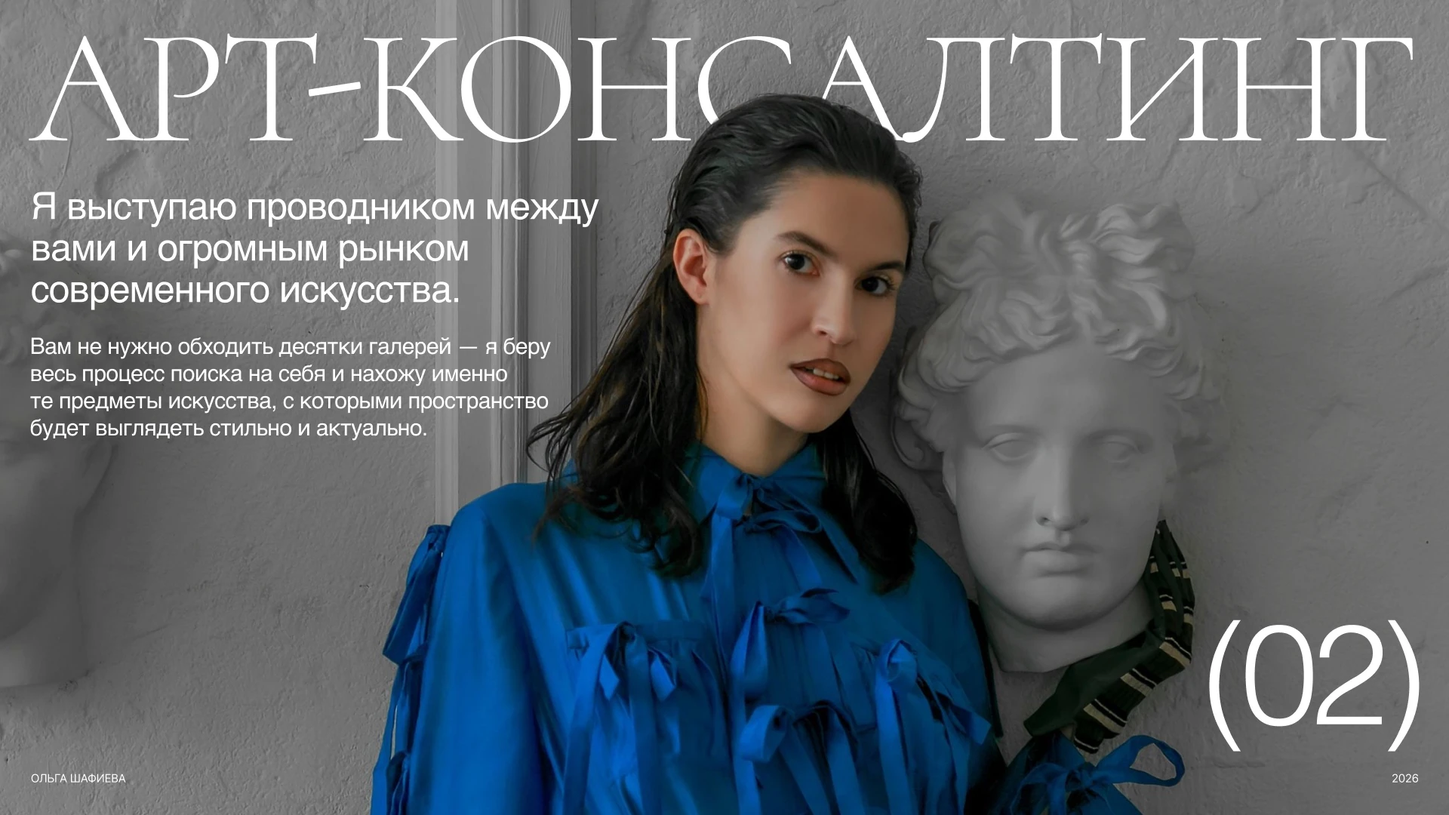
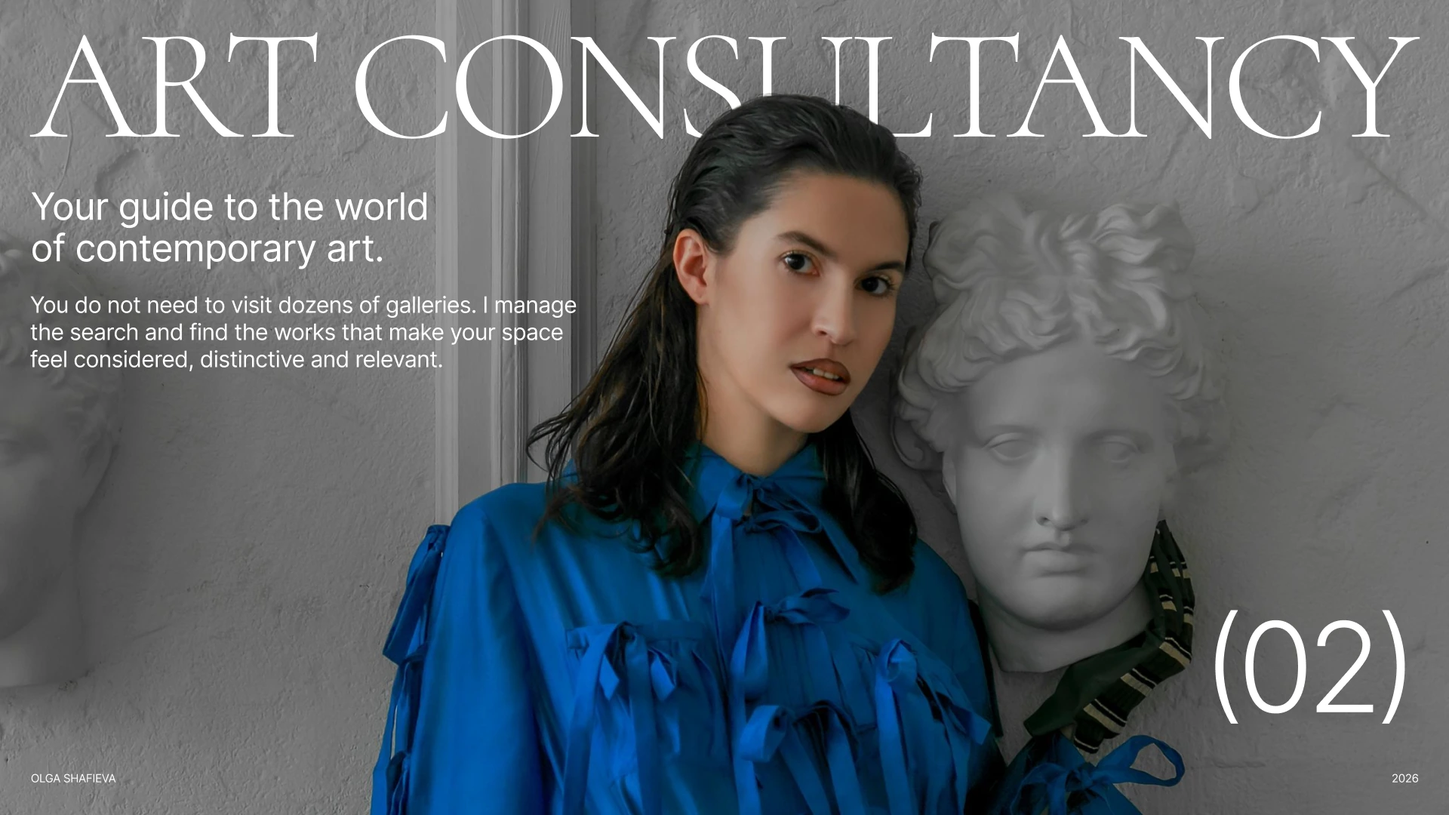
Publish revised English Olga Shafieva case slides

diff --git a/ru/projects/olga-shafieva.html b/ru/projects/olga-shafieva.html
@@ -19,14 +19,14 @@
   <meta property="og:url" content="https://byannadmitrieva.com/ru/projects/olga-shafieva.html">
   <meta property="og:site_name" content="Портфолио Анны Дмитриевой">
   <meta property="og:locale" content="ru_RU">
-  <meta property="og:image" content="https://byannadmitrieva.com/assets/projects/olga-shafieva/olga-01.webp">
+  <meta property="og:image" content="https://byannadmitrieva.com/assets/projects/olga-shafieva/olga-01.webp?v=20261105-en">
   <meta property="og:image:width" content="1920">
   <meta property="og:image:height" content="1080">
   <meta property="og:image:alt" content="Обложка презентации Ольги Шафиевой с портретом на светлом фоне">
   <meta name="twitter:card" content="summary_large_image">
   <meta name="twitter:title" content="Ольга Шафиева — Anna Dmitrieva">
   <meta name="twitter:description" content="Имиджевая презентация на пересечении недвижимости и искусства. Два направления личного бренда — в одной визуальной истории.">
-  <meta name="twitter:image" content="https://byannadmitrieva.com/assets/projects/olga-shafieva/olga-01.webp">
+  <meta name="twitter:image" content="https://byannadmitrieva.com/assets/projects/olga-shafieva/olga-01.webp?v=20261105-en">
   <meta name="twitter:image:alt" content="Обложка презентации Ольги Шафиевой с портретом на светлом фоне">
   <link rel="preload" href="../../assets/fonts/inter-latin.woff2" as="font" type="font/woff2" crossorigin>
   <link rel="preload" href="../../assets/fonts/inter-cyrillic.woff2" as="font" type="font/woff2" crossorigin>
@@ -73,23 +73,23 @@
         </div>
       </div>
       <div class="case-gallery olga-gallery">
-        <figure class="media wide reveal-media"><a href="../../assets/projects/olga-shafieva/olga-01.webp" target="_blank" rel="noopener noreferrer" aria-label="Открыть слайд в полном размере: Обложка презентации Ольги Шафиевой с портретом на светлом фоне"><img src="../../assets/projects/olga-shafieva/olga-01.webp" alt="Обложка презентации Ольги Шафиевой с портретом на светлом фоне" fetchpriority="high" decoding="async" width="1920" height="1080"></a></figure>
+        <figure class="media wide reveal-media"><a href="../../assets/projects/olga-shafieva/olga-01.webp?v=20261105-en" target="_blank" rel="noopener noreferrer" aria-label="Открыть слайд в полном размере: Обложка презентации Ольги Шафиевой с портретом на светлом фоне"><img src="../../assets/projects/olga-shafieva/olga-01.webp?v=20261105-en" alt="Обложка презентации Ольги Шафиевой с портретом на светлом фоне" fetchpriority="high" decoding="async" width="1920" height="1080"></a></figure>
         <p class="case-caption">Каждый слайд можно открыть в полном размере.</p>
         <div class="case-story"><h2>Две экспертизы.<br>Один визуальный язык.</h2><p>Недвижимость и арт-консалтинг объединены через личность эксперта. Портреты, выразительная типографика и архитектурная фотография формируют цельный образ.</p></div>
-        <figure class="media wide reveal-media"><a href="../../assets/projects/olga-shafieva/olga-02.webp" target="_blank" rel="noopener noreferrer" aria-label="Открыть слайд в полном размере: Два направления деятельности: брокеридж и арт-консалтинг"><img src="../../assets/projects/olga-shafieva/olga-02.webp" alt="Два направления деятельности: брокеридж и арт-консалтинг" loading="lazy" decoding="async" width="1920" height="1080"></a></figure>
+        <figure class="media wide reveal-media"><a href="../../assets/projects/olga-shafieva/olga-02.webp?v=20261105-en" target="_blank" rel="noopener noreferrer" aria-label="Открыть слайд в полном размере: Два направления деятельности: брокеридж и арт-консалтинг"><img src="../../assets/projects/olga-shafieva/olga-02.webp?v=20261105-en" alt="Два направления деятельности: брокеридж и арт-консалтинг" loading="lazy" decoding="async" width="1920" height="1080"></a></figure>
         <div class="case-story"><h2>Недвижимость<br>через личность.</h2><p>Чередование портретных и информационных слайдов задаёт ритм презентации. Личная история становится отправной точкой для знакомства с экспертизой и подходом к работе.</p></div>
-        <figure class="media wide reveal-media"><a href="../../assets/projects/olga-shafieva/olga-03.webp" target="_blank" rel="noopener noreferrer" aria-label="Открыть слайд в полном размере: Слайд о брокеридже с портретом в архитектурном пространстве"><img src="../../assets/projects/olga-shafieva/olga-03.webp" alt="Слайд о брокеридже с портретом в архитектурном пространстве" loading="lazy" decoding="async" width="1920" height="1080"></a></figure>
-        <figure class="media pair-left reveal-media"><a href="../../assets/projects/olga-shafieva/olga-04.webp" target="_blank" rel="noopener noreferrer" aria-label="Открыть слайд в полном размере: Портрет в красном и информация об авторе, выступлениях и городах работы"><img src="../../assets/projects/olga-shafieva/olga-04.webp" alt="Портрет в красном и информация об авторе, выступлениях и городах работы" loading="lazy" decoding="async" width="1920" height="1080"></a></figure>
-        <figure class="media pair-right reveal-media"><a href="../../assets/projects/olga-shafieva/olga-05.webp" target="_blank" rel="noopener noreferrer" aria-label="Открыть слайд в полном размере: Опыт в недвижимости: портрет и три блока экспертизы"><img src="../../assets/projects/olga-shafieva/olga-05.webp" alt="Опыт в недвижимости: портрет и три блока экспертизы" loading="lazy" decoding="async" width="1920" height="1080"></a></figure>
+        <figure class="media wide reveal-media"><a href="../../assets/projects/olga-shafieva/olga-03.webp?v=20261105-en" target="_blank" rel="noopener noreferrer" aria-label="Открыть слайд в полном размере: Слайд о брокеридже с портретом в архитектурном пространстве"><img src="../../assets/projects/olga-shafieva/olga-03.webp?v=20261105-en" alt="Слайд о брокеридже с портретом в архитектурном пространстве" loading="lazy" decoding="async" width="1920" height="1080"></a></figure>
+        <figure class="media pair-left reveal-media"><a href="../../assets/projects/olga-shafieva/olga-04.webp?v=20261105-en" target="_blank" rel="noopener noreferrer" aria-label="Открыть слайд в полном размере: Портрет в красном и информация об авторе, выступлениях и городах работы"><img src="../../assets/projects/olga-shafieva/olga-04.webp?v=20261105-en" alt="Портрет в красном и информация об авторе, выступлениях и городах работы" loading="lazy" decoding="async" width="1920" height="1080"></a></figure>
+        <figure class="media pair-right reveal-media"><a href="../../assets/projects/olga-shafieva/olga-05.webp?v=20261105-en" target="_blank" rel="noopener noreferrer" aria-label="Открыть слайд в полном размере: Опыт в недвижимости: портрет и три блока экспертизы"><img src="../../assets/projects/olga-shafieva/olga-05.webp?v=20261105-en" alt="Опыт в недвижимости: портрет и три блока экспертизы" loading="lazy" decoding="async" width="1920" height="1080"></a></figure>
         <div class="case-story"><h2>От образа<br>к ясной структуре.</h2><p>Слайды о покупке и продаже выстроены по одной сетке: этапы работы слева, интерьерная фотография справа. Повторяемая композиция помогает ориентироваться в информации.</p></div>
-        <figure class="media pair-left reveal-media"><a href="../../assets/projects/olga-shafieva/olga-06.webp" target="_blank" rel="noopener noreferrer" aria-label="Открыть слайд в полном размере: Покупка недвижимости: этапы работы и интерьер с террасой"><img src="../../assets/projects/olga-shafieva/olga-06.webp" alt="Покупка недвижимости: этапы работы и интерьер с террасой" loading="lazy" decoding="async" width="1920" height="1080"></a></figure>
-        <figure class="media pair-right reveal-media"><a href="../../assets/projects/olga-shafieva/olga-07.webp" target="_blank" rel="noopener noreferrer" aria-label="Открыть слайд в полном размере: Продажа недвижимости: этапы работы и интерьер квартиры"><img src="../../assets/projects/olga-shafieva/olga-07.webp" alt="Продажа недвижимости: этапы работы и интерьер квартиры" loading="lazy" decoding="async" width="1920" height="1080"></a></figure>
+        <figure class="media pair-left reveal-media"><a href="../../assets/projects/olga-shafieva/olga-06.webp?v=20261105-en" target="_blank" rel="noopener noreferrer" aria-label="Открыть слайд в полном размере: Покупка недвижимости: этапы работы и интерьер с террасой"><img src="../../assets/projects/olga-shafieva/olga-06.webp?v=20261105-en" alt="Покупка недвижимости: этапы работы и интерьер с террасой" loading="lazy" decoding="async" width="1920" height="1080"></a></figure>
+        <figure class="media pair-right reveal-media"><a href="../../assets/projects/olga-shafieva/olga-07.webp?v=20261105-en" target="_blank" rel="noopener noreferrer" aria-label="Открыть слайд в полном размере: Продажа недвижимости: этапы работы и интерьер квартиры"><img src="../../assets/projects/olga-shafieva/olga-07.webp?v=20261105-en" alt="Продажа недвижимости: этапы работы и интерьер квартиры" loading="lazy" decoding="async" width="1920" height="1080"></a></figure>
         <div class="case-story"><h2>Искусство как продолжение<br>пространства.</h2><p>Во второй части меняется настроение: скульптура, насыщенный синий и красный акценты раскрывают тему арт-консалтинга. Общая типографическая система связывает оба направления.</p></div>
-        <figure class="media wide reveal-media"><a href="../../assets/projects/olga-shafieva/olga-09.webp" target="_blank" rel="noopener noreferrer" aria-label="Открыть слайд в полном размере: Арт-консалтинг: портрет в синем рядом со скульптурой"><img src="../../assets/projects/olga-shafieva/olga-09.webp" alt="Арт-консалтинг: портрет в синем рядом со скульптурой" loading="lazy" decoding="async" width="1920" height="1080"></a></figure>
-        <figure class="media wide reveal-media"><a href="../../assets/projects/olga-shafieva/olga-10.webp" target="_blank" rel="noopener noreferrer" aria-label="Открыть слайд в полном размере: Опыт в арт-консалтинге: красная композиция и портрет"><img src="../../assets/projects/olga-shafieva/olga-10.webp" alt="Опыт в арт-консалтинге: красная композиция и портрет" loading="lazy" decoding="async" width="1920" height="1080"></a></figure>
+        <figure class="media wide reveal-media"><a href="../../assets/projects/olga-shafieva/olga-09.webp?v=20261105-en" target="_blank" rel="noopener noreferrer" aria-label="Открыть слайд в полном размере: Арт-консалтинг: портрет в синем рядом со скульптурой"><img src="../../assets/projects/olga-shafieva/olga-09.webp?v=20261105-en" alt="Арт-консалтинг: портрет в синем рядом со скульптурой" loading="lazy" decoding="async" width="1920" height="1080"></a></figure>
+        <figure class="media wide reveal-media"><a href="../../assets/projects/olga-shafieva/olga-10.webp?v=20261105-en" target="_blank" rel="noopener noreferrer" aria-label="Открыть слайд в полном размере: Опыт в арт-консалтинге: красная композиция и портрет"><img src="../../assets/projects/olga-shafieva/olga-10.webp?v=20261105-en" alt="Опыт в арт-консалтинге: красная композиция и портрет" loading="lazy" decoding="async" width="1920" height="1080"></a></figure>
         <div class="case-story"><h2>Разные задачи.<br>Цельная подача.</h2><p>Архитектура, интерьеры и искусство складываются в единую историю. Крупные заголовки, контрастные фотографии и спокойные текстовые блоки удерживают последовательность презентации.</p></div>
-        <figure class="media wide reveal-media"><a href="../../assets/projects/olga-shafieva/olga-08.webp" target="_blank" rel="noopener noreferrer" aria-label="Открыть слайд в полном размере: Специализация на первичном и вторичном рынках недвижимости"><img src="../../assets/projects/olga-shafieva/olga-08.webp" alt="Специализация на первичном и вторичном рынках недвижимости" loading="lazy" decoding="async" width="1920" height="1080"></a></figure>
-        <figure class="media wide reveal-media"><a href="../../assets/projects/olga-shafieva/olga-11.webp" target="_blank" rel="noopener noreferrer" aria-label="Открыть слайд в полном размере: Работа с частными клиентами, девелоперами и дизайнерами интерьера"><img src="../../assets/projects/olga-shafieva/olga-11.webp" alt="Работа с частными клиентами, девелоперами и дизайнерами интерьера" loading="lazy" decoding="async" width="1920" height="1080"></a></figure>
+        <figure class="media wide reveal-media"><a href="../../assets/projects/olga-shafieva/olga-08.webp?v=20261105-en" target="_blank" rel="noopener noreferrer" aria-label="Открыть слайд в полном размере: Специализация на первичном и вторичном рынках недвижимости"><img src="../../assets/projects/olga-shafieva/olga-08.webp?v=20261105-en" alt="Специализация на первичном и вторичном рынках недвижимости" loading="lazy" decoding="async" width="1920" height="1080"></a></figure>
+        <figure class="media wide reveal-media"><a href="../../assets/projects/olga-shafieva/olga-11.webp?v=20261105-en" target="_blank" rel="noopener noreferrer" aria-label="Открыть слайд в полном размере: Работа с частными клиентами, девелоперами и дизайнерами интерьера"><img src="../../assets/projects/olga-shafieva/olga-11.webp?v=20261105-en" alt="Работа с частными клиентами, девелоперами и дизайнерами интерьера" loading="lazy" decoding="async" width="1920" height="1080"></a></figure>
         <div class="case-credits"><p>Анна Дмитриева<br>Дизайн презентации</p><p>Ольга Шафиева<br>Недвижимость и арт-консалтинг</p></div>
       </div>
       <a class="next-project" href="beauty-value.html" style="--next:#8ca4b6">

diff --git a/de/projects/olga-shafieva.html b/de/projects/olga-shafieva.html
@@ -19,14 +19,14 @@
   <meta property="og:url" content="https://byannadmitrieva.com/de/projects/olga-shafieva.html">
   <meta property="og:site_name" content="Portfolio von Anna Dmitrieva">
   <meta property="og:locale" content="de_DE">
-  <meta property="og:image" content="https://byannadmitrieva.com/assets/projects/olga-shafieva/olga-01.webp">
+  <meta property="og:image" content="https://byannadmitrieva.com/assets/projects/olga-shafieva/olga-01.webp?v=20261105-en">
   <meta property="og:image:width" content="1920">
   <meta property="og:image:height" content="1080">
   <meta property="og:image:alt" content="Präsentationstitel für Olga Shafieva mit Porträt vor hellem Hintergrund">
   <meta name="twitter:card" content="summary_large_image">
   <meta name="twitter:title" content="Olga Shafieva — Anna Dmitrieva">
   <meta name="twitter:description" content="Eine persönliche Markenpräsentation zwischen Immobilien und Kunst. Zwei Kompetenzbereiche, verbunden in einer visuellen Geschichte.">
-  <meta name="twitter:image" content="https://byannadmitrieva.com/assets/projects/olga-shafieva/olga-01.webp">
+  <meta name="twitter:image" content="https://byannadmitrieva.com/assets/projects/olga-shafieva/olga-01.webp?v=20261105-en">
   <meta name="twitter:image:alt" content="Präsentationstitel für Olga Shafieva mit Porträt vor hellem Hintergrund">
   <link rel="preload" href="../../assets/fonts/inter-latin.woff2" as="font" type="font/woff2" crossorigin>
   <link rel="stylesheet" href="../../styles.css?v=20261104-olga">
@@ -72,23 +72,23 @@
         </div>
       </div>
       <div class="case-gallery olga-gallery">
-        <figure class="media wide reveal-media"><a href="../../assets/projects/olga-shafieva/olga-01.webp" target="_blank" rel="noopener noreferrer" aria-label="Folie in voller Größe öffnen: Präsentationstitel für Olga Shafieva mit Porträt vor hellem Hintergrund"><img src="../../assets/projects/olga-shafieva/olga-01.webp" alt="Präsentationstitel für Olga Shafieva mit Porträt vor hellem Hintergrund" fetchpriority="high" decoding="async" width="1920" height="1080"></a></figure>
+        <figure class="media wide reveal-media"><a href="../../assets/projects/olga-shafieva/olga-01.webp?v=20261105-en" target="_blank" rel="noopener noreferrer" aria-label="Folie in voller Größe öffnen: Präsentationstitel für Olga Shafieva mit Porträt vor hellem Hintergrund"><img src="../../assets/projects/olga-shafieva/olga-01.webp?v=20261105-en" alt="Präsentationstitel für Olga Shafieva mit Porträt vor hellem Hintergrund" fetchpriority="high" decoding="async" width="1920" height="1080"></a></figure>
         <p class="case-caption">Jede Folie lässt sich in voller Größe öffnen.</p>
         <div class="case-story"><h2>Zwei Disziplinen.<br>Eine visuelle Sprache.</h2><p>Immobilien und Kunstberatung werden durch die Persönlichkeit der Expertin verbunden. Porträts, ausdrucksstarke Typografie und Architekturfotografie schaffen einen stimmigen Auftritt.</p></div>
-        <figure class="media wide reveal-media"><a href="../../assets/projects/olga-shafieva/olga-02.webp" target="_blank" rel="noopener noreferrer" aria-label="Folie in voller Größe öffnen: Zwei Tätigkeitsbereiche: Immobilienvermittlung und Kunstberatung"><img src="../../assets/projects/olga-shafieva/olga-02.webp" alt="Zwei Tätigkeitsbereiche: Immobilienvermittlung und Kunstberatung" loading="lazy" decoding="async" width="1920" height="1080"></a></figure>
+        <figure class="media wide reveal-media"><a href="../../assets/projects/olga-shafieva/olga-02.webp?v=20261105-en" target="_blank" rel="noopener noreferrer" aria-label="Folie in voller Größe öffnen: Zwei Tätigkeitsbereiche: Immobilienvermittlung und Kunstberatung"><img src="../../assets/projects/olga-shafieva/olga-02.webp?v=20261105-en" alt="Zwei Tätigkeitsbereiche: Immobilienvermittlung und Kunstberatung" loading="lazy" decoding="async" width="1920" height="1080"></a></figure>
         <div class="case-story"><h2>Immobilien.<br>Persönlich betrachtet.</h2><p>Porträts und Informationsfolien wechseln sich ab und geben der Präsentation ihren Rhythmus. Die persönliche Geschichte führt in die Expertise und Arbeitsweise ein.</p></div>
-        <figure class="media wide reveal-media"><a href="../../assets/projects/olga-shafieva/olga-03.webp" target="_blank" rel="noopener noreferrer" aria-label="Folie in voller Größe öffnen: Immobilienvermittlung mit Porträt in architektonischer Umgebung"><img src="../../assets/projects/olga-shafieva/olga-03.webp" alt="Immobilienvermittlung mit Porträt in architektonischer Umgebung" loading="lazy" decoding="async" width="1920" height="1080"></a></figure>
-        <figure class="media pair-left reveal-media"><a href="../../assets/projects/olga-shafieva/olga-04.webp" target="_blank" rel="noopener noreferrer" aria-label="Folie in voller Größe öffnen: Porträt in Rot mit Informationen zu Publikationen, Vorträgen und Standorten"><img src="../../assets/projects/olga-shafieva/olga-04.webp" alt="Porträt in Rot mit Informationen zu Publikationen, Vorträgen und Standorten" loading="lazy" decoding="async" width="1920" height="1080"></a></figure>
-        <figure class="media pair-right reveal-media"><a href="../../assets/projects/olga-shafieva/olga-05.webp" target="_blank" rel="noopener noreferrer" aria-label="Folie in voller Größe öffnen: Immobilienerfahrung mit Porträt und drei Kompetenzbereichen"><img src="../../assets/projects/olga-shafieva/olga-05.webp" alt="Immobilienerfahrung mit Porträt und drei Kompetenzbereichen" loading="lazy" decoding="async" width="1920" height="1080"></a></figure>
+        <figure class="media wide reveal-media"><a href="../../assets/projects/olga-shafieva/olga-03.webp?v=20261105-en" target="_blank" rel="noopener noreferrer" aria-label="Folie in voller Größe öffnen: Immobilienvermittlung mit Porträt in architektonischer Umgebung"><img src="../../assets/projects/olga-shafieva/olga-03.webp?v=20261105-en" alt="Immobilienvermittlung mit Porträt in architektonischer Umgebung" loading="lazy" decoding="async" width="1920" height="1080"></a></figure>
+        <figure class="media pair-left reveal-media"><a href="../../assets/projects/olga-shafieva/olga-04.webp?v=20261105-en" target="_blank" rel="noopener noreferrer" aria-label="Folie in voller Größe öffnen: Porträt in Rot mit Informationen zu Publikationen, Vorträgen und Standorten"><img src="../../assets/projects/olga-shafieva/olga-04.webp?v=20261105-en" alt="Porträt in Rot mit Informationen zu Publikationen, Vorträgen und Standorten" loading="lazy" decoding="async" width="1920" height="1080"></a></figure>
+        <figure class="media pair-right reveal-media"><a href="../../assets/projects/olga-shafieva/olga-05.webp?v=20261105-en" target="_blank" rel="noopener noreferrer" aria-label="Folie in voller Größe öffnen: Immobilienerfahrung mit Porträt und drei Kompetenzbereichen"><img src="../../assets/projects/olga-shafieva/olga-05.webp?v=20261105-en" alt="Immobilienerfahrung mit Porträt und drei Kompetenzbereichen" loading="lazy" decoding="async" width="1920" height="1080"></a></figure>
         <div class="case-story"><h2>Vom Ausdruck<br>zur klaren Struktur.</h2><p>Kauf und Verkauf folgen demselben Raster: Arbeitsschritte links, Interieurfotografie rechts. Die wiederkehrende Komposition erleichtert die Orientierung.</p></div>
-        <figure class="media pair-left reveal-media"><a href="../../assets/projects/olga-shafieva/olga-06.webp" target="_blank" rel="noopener noreferrer" aria-label="Folie in voller Größe öffnen: Ablauf beim Immobilienkauf mit Interieur und Terrasse"><img src="../../assets/projects/olga-shafieva/olga-06.webp" alt="Ablauf beim Immobilienkauf mit Interieur und Terrasse" loading="lazy" decoding="async" width="1920" height="1080"></a></figure>
-        <figure class="media pair-right reveal-media"><a href="../../assets/projects/olga-shafieva/olga-07.webp" target="_blank" rel="noopener noreferrer" aria-label="Folie in voller Größe öffnen: Ablauf beim Immobilienverkauf mit Wohnungseinrichtung"><img src="../../assets/projects/olga-shafieva/olga-07.webp" alt="Ablauf beim Immobilienverkauf mit Wohnungseinrichtung" loading="lazy" decoding="async" width="1920" height="1080"></a></figure>
+        <figure class="media pair-left reveal-media"><a href="../../assets/projects/olga-shafieva/olga-06.webp?v=20261105-en" target="_blank" rel="noopener noreferrer" aria-label="Folie in voller Größe öffnen: Ablauf beim Immobilienkauf mit Interieur und Terrasse"><img src="../../assets/projects/olga-shafieva/olga-06.webp?v=20261105-en" alt="Ablauf beim Immobilienkauf mit Interieur und Terrasse" loading="lazy" decoding="async" width="1920" height="1080"></a></figure>
+        <figure class="media pair-right reveal-media"><a href="../../assets/projects/olga-shafieva/olga-07.webp?v=20261105-en" target="_blank" rel="noopener noreferrer" aria-label="Folie in voller Größe öffnen: Ablauf beim Immobilienverkauf mit Wohnungseinrichtung"><img src="../../assets/projects/olga-shafieva/olga-07.webp?v=20261105-en" alt="Ablauf beim Immobilienverkauf mit Wohnungseinrichtung" loading="lazy" decoding="async" width="1920" height="1080"></a></figure>
         <div class="case-story"><h2>Kunst als Erweiterung<br>des Raumes.</h2><p>Im zweiten Kapitel verändert sich die Stimmung. Skulptur, kräftiges Blau und rote Akzente führen in die Kunstberatung ein. Das gemeinsame typografische System verbindet beide Bereiche.</p></div>
-        <figure class="media wide reveal-media"><a href="../../assets/projects/olga-shafieva/olga-09.webp" target="_blank" rel="noopener noreferrer" aria-label="Folie in voller Größe öffnen: Kunstberatung mit blauem Porträt neben einer Skulptur"><img src="../../assets/projects/olga-shafieva/olga-09.webp" alt="Kunstberatung mit blauem Porträt neben einer Skulptur" loading="lazy" decoding="async" width="1920" height="1080"></a></figure>
-        <figure class="media wide reveal-media"><a href="../../assets/projects/olga-shafieva/olga-10.webp" target="_blank" rel="noopener noreferrer" aria-label="Folie in voller Größe öffnen: Erfahrung in der Kunstberatung mit roter Komposition und Porträt"><img src="../../assets/projects/olga-shafieva/olga-10.webp" alt="Erfahrung in der Kunstberatung mit roter Komposition und Porträt" loading="lazy" decoding="async" width="1920" height="1080"></a></figure>
+        <figure class="media wide reveal-media"><a href="../../assets/projects/olga-shafieva/olga-09.webp?v=20261105-en" target="_blank" rel="noopener noreferrer" aria-label="Folie in voller Größe öffnen: Kunstberatung mit blauem Porträt neben einer Skulptur"><img src="../../assets/projects/olga-shafieva/olga-09.webp?v=20261105-en" alt="Kunstberatung mit blauem Porträt neben einer Skulptur" loading="lazy" decoding="async" width="1920" height="1080"></a></figure>
+        <figure class="media wide reveal-media"><a href="../../assets/projects/olga-shafieva/olga-10.webp?v=20261105-en" target="_blank" rel="noopener noreferrer" aria-label="Folie in voller Größe öffnen: Erfahrung in der Kunstberatung mit roter Komposition und Porträt"><img src="../../assets/projects/olga-shafieva/olga-10.webp?v=20261105-en" alt="Erfahrung in der Kunstberatung mit roter Komposition und Porträt" loading="lazy" decoding="async" width="1920" height="1080"></a></figure>
         <div class="case-story"><h2>Vielfältige Aufgaben.<br>Ein stimmiger Auftritt.</h2><p>Architektur, Interieurs und Kunst verbinden sich zu einer Geschichte. Große Überschriften, kontrastreiche Fotografien und ruhige Textblöcke strukturieren die Präsentation.</p></div>
-        <figure class="media wide reveal-media"><a href="../../assets/projects/olga-shafieva/olga-08.webp" target="_blank" rel="noopener noreferrer" aria-label="Folie in voller Größe öffnen: Spezialisierung auf Neubauten und Bestandsimmobilien"><img src="../../assets/projects/olga-shafieva/olga-08.webp" alt="Spezialisierung auf Neubauten und Bestandsimmobilien" loading="lazy" decoding="async" width="1920" height="1080"></a></figure>
-        <figure class="media wide reveal-media"><a href="../../assets/projects/olga-shafieva/olga-11.webp" target="_blank" rel="noopener noreferrer" aria-label="Folie in voller Größe öffnen: Kunstberatung für Privatkunden, Projektentwickler und Innenarchitekten"><img src="../../assets/projects/olga-shafieva/olga-11.webp" alt="Kunstberatung für Privatkunden, Projektentwickler und Innenarchitekten" loading="lazy" decoding="async" width="1920" height="1080"></a></figure>
+        <figure class="media wide reveal-media"><a href="../../assets/projects/olga-shafieva/olga-08.webp?v=20261105-en" target="_blank" rel="noopener noreferrer" aria-label="Folie in voller Größe öffnen: Spezialisierung auf Neubauten und Bestandsimmobilien"><img src="../../assets/projects/olga-shafieva/olga-08.webp?v=20261105-en" alt="Spezialisierung auf Neubauten und Bestandsimmobilien" loading="lazy" decoding="async" width="1920" height="1080"></a></figure>
+        <figure class="media wide reveal-media"><a href="../../assets/projects/olga-shafieva/olga-11.webp?v=20261105-en" target="_blank" rel="noopener noreferrer" aria-label="Folie in voller Größe öffnen: Kunstberatung für Privatkunden, Projektentwickler und Innenarchitekten"><img src="../../assets/projects/olga-shafieva/olga-11.webp?v=20261105-en" alt="Kunstberatung für Privatkunden, Projektentwickler und Innenarchitekten" loading="lazy" decoding="async" width="1920" height="1080"></a></figure>
         <div class="case-credits"><p>Anna Dmitrieva<br>Präsentationsdesign</p><p>Olga Shafieva<br>Immobilien &amp; Kunstberatung</p></div>
       </div>
       <a class="next-project" href="beauty-value.html" style="--next:#8ca4b6">

diff --git a/projects/olga-shafieva.html b/projects/olga-shafieva.html
@@ -19,14 +19,14 @@
   <meta property="og:url" content="https://byannadmitrieva.com/projects/olga-shafieva.html">
   <meta property="og:site_name" content="Anna Dmitrieva Portfolio">
   <meta property="og:locale" content="en_US">
-  <meta property="og:image" content="https://byannadmitrieva.com/assets/projects/olga-shafieva/olga-01.webp">
+  <meta property="og:image" content="https://byannadmitrieva.com/assets/projects/olga-shafieva/olga-01.webp?v=20261105-en">
   <meta property="og:image:width" content="1920">
   <meta property="og:image:height" content="1080">
   <meta property="og:image:alt" content="Olga Shafieva presentation cover with a portrait on a light background">
   <meta name="twitter:card" content="summary_large_image">
   <meta name="twitter:title" content="Olga Shafieva — Anna Dmitrieva">
   <meta name="twitter:description" content="A personal brand presentation at the intersection of real estate and art. Two areas of expertise, brought together in one visual story.">
-  <meta name="twitter:image" content="https://byannadmitrieva.com/assets/projects/olga-shafieva/olga-01.webp">
+  <meta name="twitter:image" content="https://byannadmitrieva.com/assets/projects/olga-shafieva/olga-01.webp?v=20261105-en">
   <meta name="twitter:image:alt" content="Olga Shafieva presentation cover with a portrait on a light background">
   <link rel="preload" href="../assets/fonts/inter-latin.woff2" as="font" type="font/woff2" crossorigin>
   <link rel="stylesheet" href="../styles.css?v=20261104-olga">
@@ -72,23 +72,23 @@
         </div>
       </div>
       <div class="case-gallery olga-gallery">
-        <figure class="media wide reveal-media"><a href="../assets/projects/olga-shafieva/olga-01.webp" target="_blank" rel="noopener noreferrer" aria-label="Open slide at full size: Olga Shafieva presentation cover with a portrait on a light background"><img src="../assets/projects/olga-shafieva/olga-01.webp" alt="Olga Shafieva presentation cover with a portrait on a light background" fetchpriority="high" decoding="async" width="1920" height="1080"></a></figure>
+        <figure class="media wide reveal-media"><a href="../assets/projects/olga-shafieva/olga-01.webp?v=20261105-en" target="_blank" rel="noopener noreferrer" aria-label="Open slide at full size: Olga Shafieva presentation cover with a portrait on a light background"><img src="../assets/projects/olga-shafieva/olga-01.webp?v=20261105-en" alt="Olga Shafieva presentation cover with a portrait on a light background" fetchpriority="high" decoding="async" width="1920" height="1080"></a></figure>
         <p class="case-caption">Open any slide to view it at full size.</p>
         <div class="case-story"><h2>Two disciplines.<br>One visual language.</h2><p>Real estate and art consultancy meet through the person behind the expertise. Portraits, expressive typography and architectural photography establish a coherent personal presence.</p></div>
-        <figure class="media wide reveal-media"><a href="../assets/projects/olga-shafieva/olga-02.webp" target="_blank" rel="noopener noreferrer" aria-label="Open slide at full size: Two areas of expertise: real estate brokerage and art consultancy"><img src="../assets/projects/olga-shafieva/olga-02.webp" alt="Two areas of expertise: real estate brokerage and art consultancy" loading="lazy" decoding="async" width="1920" height="1080"></a></figure>
+        <figure class="media wide reveal-media"><a href="../assets/projects/olga-shafieva/olga-02.webp?v=20261105-en" target="_blank" rel="noopener noreferrer" aria-label="Open slide at full size: Two areas of expertise: real estate brokerage and art consultancy"><img src="../assets/projects/olga-shafieva/olga-02.webp?v=20261105-en" alt="Two areas of expertise: real estate brokerage and art consultancy" loading="lazy" decoding="async" width="1920" height="1080"></a></figure>
         <div class="case-story"><h2>Real estate.<br>A personal perspective.</h2><p>Portraits alternate with information to set the pace. A personal story introduces the expertise and approach behind the services.</p></div>
-        <figure class="media wide reveal-media"><a href="../assets/projects/olga-shafieva/olga-03.webp" target="_blank" rel="noopener noreferrer" aria-label="Open slide at full size: Real estate brokerage chapter with a portrait in an architectural setting"><img src="../assets/projects/olga-shafieva/olga-03.webp" alt="Real estate brokerage chapter with a portrait in an architectural setting" loading="lazy" decoding="async" width="1920" height="1080"></a></figure>
-        <figure class="media pair-left reveal-media"><a href="../assets/projects/olga-shafieva/olga-04.webp" target="_blank" rel="noopener noreferrer" aria-label="Open slide at full size: Portrait in red alongside authorship, speaking and location details"><img src="../assets/projects/olga-shafieva/olga-04.webp" alt="Portrait in red alongside authorship, speaking and location details" loading="lazy" decoding="async" width="1920" height="1080"></a></figure>
-        <figure class="media pair-right reveal-media"><a href="../assets/projects/olga-shafieva/olga-05.webp" target="_blank" rel="noopener noreferrer" aria-label="Open slide at full size: Real estate experience presented through a portrait and three areas of expertise"><img src="../assets/projects/olga-shafieva/olga-05.webp" alt="Real estate experience presented through a portrait and three areas of expertise" loading="lazy" decoding="async" width="1920" height="1080"></a></figure>
+        <figure class="media wide reveal-media"><a href="../assets/projects/olga-shafieva/olga-03.webp?v=20261105-en" target="_blank" rel="noopener noreferrer" aria-label="Open slide at full size: Real estate brokerage chapter with a portrait in an architectural setting"><img src="../assets/projects/olga-shafieva/olga-03.webp?v=20261105-en" alt="Real estate brokerage chapter with a portrait in an architectural setting" loading="lazy" decoding="async" width="1920" height="1080"></a></figure>
+        <figure class="media pair-left reveal-media"><a href="../assets/projects/olga-shafieva/olga-04.webp?v=20261105-en" target="_blank" rel="noopener noreferrer" aria-label="Open slide at full size: Portrait in red alongside authorship, speaking and location details"><img src="../assets/projects/olga-shafieva/olga-04.webp?v=20261105-en" alt="Portrait in red alongside authorship, speaking and location details" loading="lazy" decoding="async" width="1920" height="1080"></a></figure>
+        <figure class="media pair-right reveal-media"><a href="../assets/projects/olga-shafieva/olga-05.webp?v=20261105-en" target="_blank" rel="noopener noreferrer" aria-label="Open slide at full size: Real estate experience presented through a portrait and three areas of expertise"><img src="../assets/projects/olga-shafieva/olga-05.webp?v=20261105-en" alt="Real estate experience presented through a portrait and three areas of expertise" loading="lazy" decoding="async" width="1920" height="1080"></a></figure>
         <div class="case-story"><h2>From expression<br>to a clear structure.</h2><p>Buying and selling follow the same grid: stages of work on the left, interior photography on the right. A repeatable composition makes the information easy to navigate.</p></div>
-        <figure class="media pair-left reveal-media"><a href="../assets/projects/olga-shafieva/olga-06.webp" target="_blank" rel="noopener noreferrer" aria-label="Open slide at full size: Property buying process with an interior and terrace photograph"><img src="../assets/projects/olga-shafieva/olga-06.webp" alt="Property buying process with an interior and terrace photograph" loading="lazy" decoding="async" width="1920" height="1080"></a></figure>
-        <figure class="media pair-right reveal-media"><a href="../assets/projects/olga-shafieva/olga-07.webp" target="_blank" rel="noopener noreferrer" aria-label="Open slide at full size: Property selling process alongside an apartment interior"><img src="../assets/projects/olga-shafieva/olga-07.webp" alt="Property selling process alongside an apartment interior" loading="lazy" decoding="async" width="1920" height="1080"></a></figure>
+        <figure class="media pair-left reveal-media"><a href="../assets/projects/olga-shafieva/olga-06.webp?v=20261105-en" target="_blank" rel="noopener noreferrer" aria-label="Open slide at full size: Property buying process with an interior and terrace photograph"><img src="../assets/projects/olga-shafieva/olga-06.webp?v=20261105-en" alt="Property buying process with an interior and terrace photograph" loading="lazy" decoding="async" width="1920" height="1080"></a></figure>
+        <figure class="media pair-right reveal-media"><a href="../assets/projects/olga-shafieva/olga-07.webp?v=20261105-en" target="_blank" rel="noopener noreferrer" aria-label="Open slide at full size: Property selling process alongside an apartment interior"><img src="../assets/projects/olga-shafieva/olga-07.webp?v=20261105-en" alt="Property selling process alongside an apartment interior" loading="lazy" decoding="async" width="1920" height="1080"></a></figure>
         <div class="case-story"><h2>Art as an extension<br>of space.</h2><p>The second chapter shifts the mood. Sculpture, vivid blue and red accents introduce art consultancy, while a shared typographic system connects the two disciplines.</p></div>
-        <figure class="media wide reveal-media"><a href="../assets/projects/olga-shafieva/olga-09.webp" target="_blank" rel="noopener noreferrer" aria-label="Open slide at full size: Art consultancy chapter with a blue portrait beside a sculpture"><img src="../assets/projects/olga-shafieva/olga-09.webp" alt="Art consultancy chapter with a blue portrait beside a sculpture" loading="lazy" decoding="async" width="1920" height="1080"></a></figure>
-        <figure class="media wide reveal-media"><a href="../assets/projects/olga-shafieva/olga-10.webp" target="_blank" rel="noopener noreferrer" aria-label="Open slide at full size: Art consultancy experience with a red composition and portrait"><img src="../assets/projects/olga-shafieva/olga-10.webp" alt="Art consultancy experience with a red composition and portrait" loading="lazy" decoding="async" width="1920" height="1080"></a></figure>
+        <figure class="media wide reveal-media"><a href="../assets/projects/olga-shafieva/olga-09.webp?v=20261105-en" target="_blank" rel="noopener noreferrer" aria-label="Open slide at full size: Art consultancy chapter with a blue portrait beside a sculpture"><img src="../assets/projects/olga-shafieva/olga-09.webp?v=20261105-en" alt="Art consultancy chapter with a blue portrait beside a sculpture" loading="lazy" decoding="async" width="1920" height="1080"></a></figure>
+        <figure class="media wide reveal-media"><a href="../assets/projects/olga-shafieva/olga-10.webp?v=20261105-en" target="_blank" rel="noopener noreferrer" aria-label="Open slide at full size: Art consultancy experience with a red composition and portrait"><img src="../assets/projects/olga-shafieva/olga-10.webp?v=20261105-en" alt="Art consultancy experience with a red composition and portrait" loading="lazy" decoding="async" width="1920" height="1080"></a></figure>
         <div class="case-story"><h2>Different needs.<br>A coherent presentation.</h2><p>Architecture, interiors and art come together in one story. Large headlines, contrasting photographs and quiet text blocks give the presentation a consistent rhythm.</p></div>
-        <figure class="media wide reveal-media"><a href="../assets/projects/olga-shafieva/olga-08.webp" target="_blank" rel="noopener noreferrer" aria-label="Open slide at full size: Specialisation in new developments and the resale market"><img src="../assets/projects/olga-shafieva/olga-08.webp" alt="Specialisation in new developments and the resale market" loading="lazy" decoding="async" width="1920" height="1080"></a></figure>
-        <figure class="media wide reveal-media"><a href="../assets/projects/olga-shafieva/olga-11.webp" target="_blank" rel="noopener noreferrer" aria-label="Open slide at full size: Art services for private clients, developers and interior designers"><img src="../assets/projects/olga-shafieva/olga-11.webp" alt="Art services for private clients, developers and interior designers" loading="lazy" decoding="async" width="1920" height="1080"></a></figure>
+        <figure class="media wide reveal-media"><a href="../assets/projects/olga-shafieva/olga-08.webp?v=20261105-en" target="_blank" rel="noopener noreferrer" aria-label="Open slide at full size: Specialisation in new developments and the resale market"><img src="../assets/projects/olga-shafieva/olga-08.webp?v=20261105-en" alt="Specialisation in new developments and the resale market" loading="lazy" decoding="async" width="1920" height="1080"></a></figure>
+        <figure class="media wide reveal-media"><a href="../assets/projects/olga-shafieva/olga-11.webp?v=20261105-en" target="_blank" rel="noopener noreferrer" aria-label="Open slide at full size: Art services for private clients, developers and interior designers"><img src="../assets/projects/olga-shafieva/olga-11.webp?v=20261105-en" alt="Art services for private clients, developers and interior designers" loading="lazy" decoding="async" width="1920" height="1080"></a></figure>
         <div class="case-credits"><p>Anna Dmitrieva<br>Presentation design</p><p>Olga Shafieva<br>Real estate &amp; art consultancy</p></div>
       </div>
       <a class="next-project" href="beauty-value.html" style="--next:#8ca4b6">
